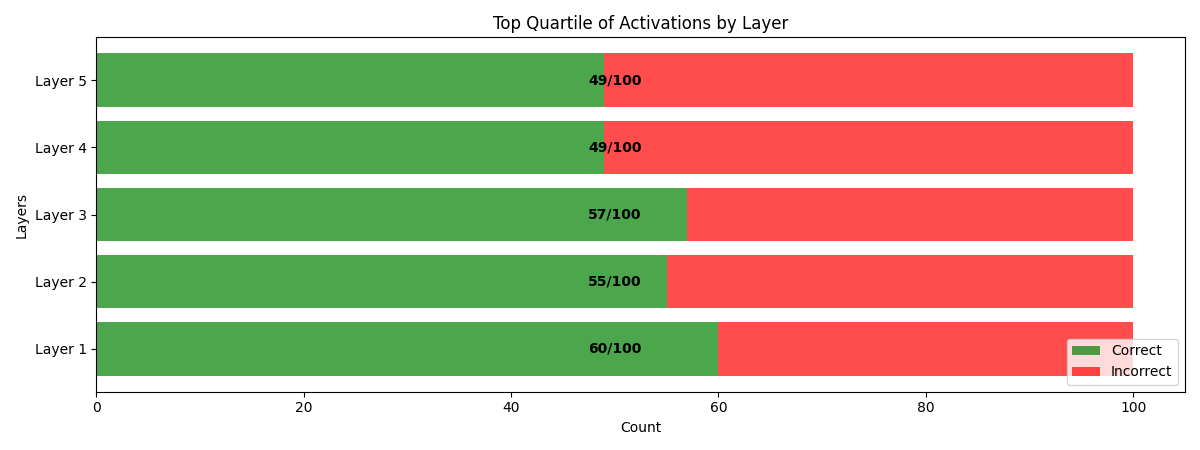
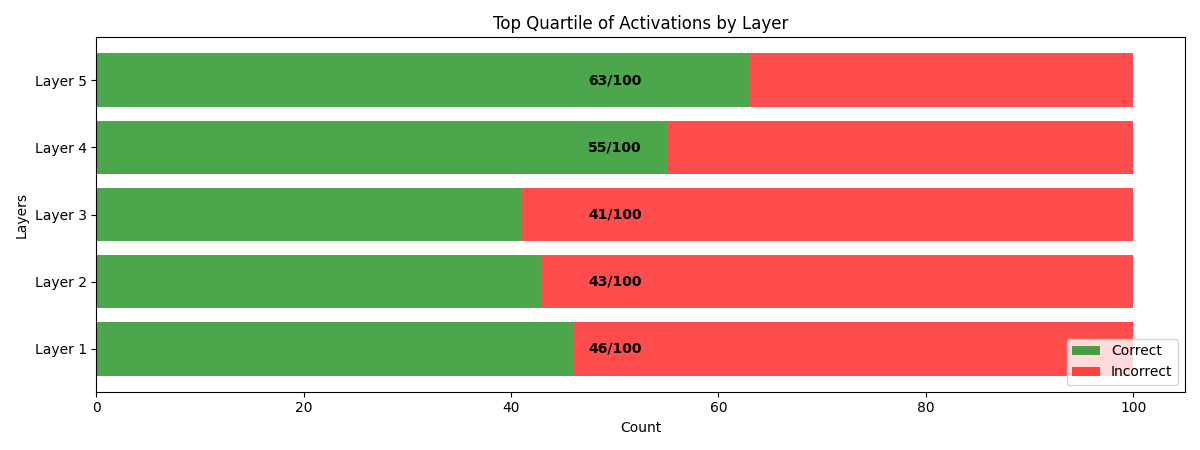
mess no std

Changed region(s): [[0.4317, 0.0933, 0.6475, 0.6844], [0.4625, 0.7156, 0.6167, 0.84]]

diff --git a/RecurrentFF/model/hidden_layer.py b/RecurrentFF/model/hidden_layer.py
@@ -620,11 +620,13 @@ class HiddenLayer(nn.Module):
 
         pos_badness = layer_activations_to_badness(pos_activations)
         neg_badness = layer_activations_to_badness(neg_activations)
+        pos_badness = torch.clamp(pos_badness, min=0.5)
+        neg_badness = torch.clamp(neg_badness, max=3)
 
         # Loss function equivelent to:
         # plot3d log(1 + exp(-n + 1)) + log(1 + exp(p - 1)) for n=0 to 3, p=0
         # to 3
-        layer_loss: Tensor = 10 * F.softplus(torch.cat([
+        layer_loss: Tensor = 1 * F.softplus(torch.cat([
             (-1 * neg_badness) + self.settings.model.loss_threshold,
             pos_badness - self.settings.model.loss_threshold
         ])).mean()
@@ -723,15 +725,18 @@ class HiddenLayer(nn.Module):
                 prev_act = cast(Activations, self.predict_activations).previous
 
             prev_layer_prev_timestep_activations = prev_layer_prev_timestep_activations
-            prev_layer_stdized = standardize_layer_activations(
-                prev_layer_prev_timestep_activations, self.settings.model.epsilon)
+            # prev_layer_stdized = standardize_layer_activations(
+            #     prev_layer_prev_timestep_activations, self.settings.model.epsilon)
+            prev_layer_stdized = prev_layer_prev_timestep_activations
 
             next_layer_prev_timestep_activations = next_layer_prev_timestep_activations
-            next_layer_stdized = standardize_layer_activations(
-                next_layer_prev_timestep_activations, self.settings.model.epsilon)
+            # next_layer_stdized = standardize_layer_activations(
+            #     next_layer_prev_timestep_activations, self.settings.model.epsilon)
+            next_layer_stdized = next_layer_prev_timestep_activations
 
-            prev_act_stdized = standardize_layer_activations(
-                prev_act, self.settings.model.epsilon)
+            # prev_act_stdized = standardize_layer_activations(
+            #     prev_act, self.settings.model.epsilon)
+            prev_act_stdized = prev_act
 
             self.forward_act = self.forward_linear.forward(prev_layer_stdized)
             self.backward_act = -1 * self.backward_linear.forward(next_layer_stdized)
@@ -750,8 +755,9 @@ class HiddenLayer(nn.Module):
                 assert self.predict_activations is not None
                 prev_act = cast(Activations, self.predict_activations).previous
 
-            prev_act_stdized = standardize_layer_activations(
-                prev_act, self.settings.model.epsilon)
+            # prev_act_stdized = standardize_layer_activations(
+            #     prev_act, self.settings.model.epsilon)
+            prev_act_stdized = prev_act
 
             self.forward_act = self.forward_linear.forward(data)
             self.backward_act = -1 * self.backward_linear.forward(labels)
@@ -773,12 +779,13 @@ class HiddenLayer(nn.Module):
                     Activations, next_layer.predict_activations).previous
                 prev_act = cast(Activations, self.predict_activations).previous
 
-            next_layer_prev_timestep_activations = next_layer_prev_timestep_activations
-            next_layer_stdized = standardize_layer_activations(
-                next_layer_prev_timestep_activations, self.settings.model.epsilon)
+            # next_layer_stdized = standardize_layer_activations(
+            #     next_layer_prev_timestep_activations, self.settings.model.epsilon)
+            next_layer_stdized = next_layer_prev_timestep_activations
 
-            prev_act_stdized = standardize_layer_activations(
-                prev_act, self.settings.model.epsilon)
+            # prev_act_stdized = standardize_layer_activations(
+            #     prev_act, self.settings.model.epsilon)
+            prev_act_stdized = prev_act
 
             self.forward_act = self.forward_linear.forward(data)
             self.backward_act = -1 * self.backward_linear.forward(next_layer_stdized)
@@ -800,12 +807,13 @@ class HiddenLayer(nn.Module):
                     Activations, previous_layer.predict_activations).previous
                 prev_act = cast(Activations, self.predict_activations).previous
 
-            prev_layer_prev_timestep_activations = prev_layer_prev_timestep_activations
-            prev_layer_stdized = standardize_layer_activations(
-                prev_layer_prev_timestep_activations, self.settings.model.epsilon)
+            # prev_layer_stdized = standardize_layer_activations(
+            #     prev_layer_prev_timestep_activations, self.settings.model.epsilon)
+            prev_layer_stdized = prev_layer_prev_timestep_activations
 
-            prev_act_stdized = standardize_layer_activations(
-                prev_act, self.settings.model.epsilon)
+            # prev_act_stdized = standardize_layer_activations(
+            #     prev_act, self.settings.model.epsilon)
+            prev_act_stdized = prev_act
 
             self.forward_act = self.forward_linear.forward(prev_layer_stdized)
             self.backward_act = -1 * self.backward_linear.forward(labels)

diff --git a/RecurrentFF/model/data_scenario/static_single_class.py b/RecurrentFF/model/data_scenario/static_single_class.py
@@ -10,7 +10,7 @@ import wandb
 
 from RecurrentFF.model.data_scenario.processor import DataScenarioProcessor
 from RecurrentFF.model.inner_layers import InnerLayers
-from RecurrentFF.util import Activations, LatentAverager, TrainLabelData, layer_activations_to_badness, ForwardMode, is_confident, zero_correct_class_softmax, swap_top_two_softmax, zero_highest_logit, sample_from_logits_excluding_highest
+from RecurrentFF.util import Activations, LatentAverager, TrainLabelData, layer_activations_to_badness, ForwardMode, is_confident, zero_correct_class_softmax, swap_top_two_softmax, zero_highest_logit, sample_from_logits_excluding_highest, standardize_layer_activations
 from RecurrentFF.settings import Settings
 
 
@@ -502,6 +502,7 @@ class StaticSingleClassProcessor(DataScenarioProcessor):
                 class_predictions_agg, dim=1) == labels).float().sum().item()
             accuracy_contexts.append((correct_number_agg, data.size(1)))
 
+        # ###
         # import matplotlib.pyplot as plt
         # # Calculate sum of squared activations and separate correct/incorrect predictions
         # predictions = torch.argmax(class_predictions_agg, dim=1)
@@ -544,6 +545,7 @@ class StaticSingleClassProcessor(DataScenarioProcessor):
         # plt.tight_layout()
         # plt.savefig(f'quartile_analysis_batch_{batch}.png')
         # plt.close()
+        # ###
 
 
         total_correct = sum(correct for correct, _total in accuracy_contexts)

diff --git a/RecurrentFF/util.py b/RecurrentFF/util.py
@@ -157,7 +157,7 @@ def set_logging() -> None:
                         format='%(asctime)s - %(levelname)s - %(message)s')
 
 
-def standardize_layer_activations(layer_activations: torch.Tensor, epsilon: float) -> torch.Tensor:
+def standardize_layer_activations(layer_activations: torch.Tensor, epsilon: float = 0.000000000001) -> torch.Tensor:
     squared_activations = layer_activations ** 2
     mean_squared = torch.mean(squared_activations, dim=1, keepdim=True)
     l2_norm = torch.sqrt(mean_squared + epsilon)

diff --git a/RecurrentFF/analysis/data_pipeline/collect_activations.py b/RecurrentFF/analysis/data_pipeline/collect_activations.py
@@ -13,7 +13,7 @@ from RecurrentFF.settings import Settings, DataConfig
 TEST_BATCH_SIZE = TRAIN_BATCH_SIZE
 NUM_BATCHES = 1000
 
-WEIGHTS_PATH = "/home/localuser/Documents/projects/RecurrentForwardForward/CIFAR10_2024-10-03_12-55-29_EAOMAW.pth"
+WEIGHTS_PATH = "/home/localuser/Documents/projects/RecurrentForwardForward/CIFAR10_2024-10-07_08-03-04_WKP79M.pth"
 
 if __name__ == "__main__":
     settings = Settings.new()

diff --git a/RecurrentFF/model/model.py b/RecurrentFF/model/model.py
@@ -27,7 +27,8 @@ from RecurrentFF.util import (
     percent_above_threshold,
     percent_correct,
     sample_avoiding_correct_class,
-    sample_from_logits_excluding_highest
+    sample_from_logits_excluding_highest,
+    standardize_layer_activations
 )
 from RecurrentFF.settings import (
     Settings,

diff --git a/RecurrentFF/benchmarks/cifar10/cifar10.py b/RecurrentFF/benchmarks/cifar10/cifar10.py
@@ -137,7 +137,7 @@ def CIFAR10_loaders(train_batch_size, test_batch_size):
                 download=True,
                 transform=transform)),
         batch_size=test_batch_size,
-        shuffle=True,
+        shuffle=False,
         collate_fn=test_collate_fn,
         num_workers=0)
 
